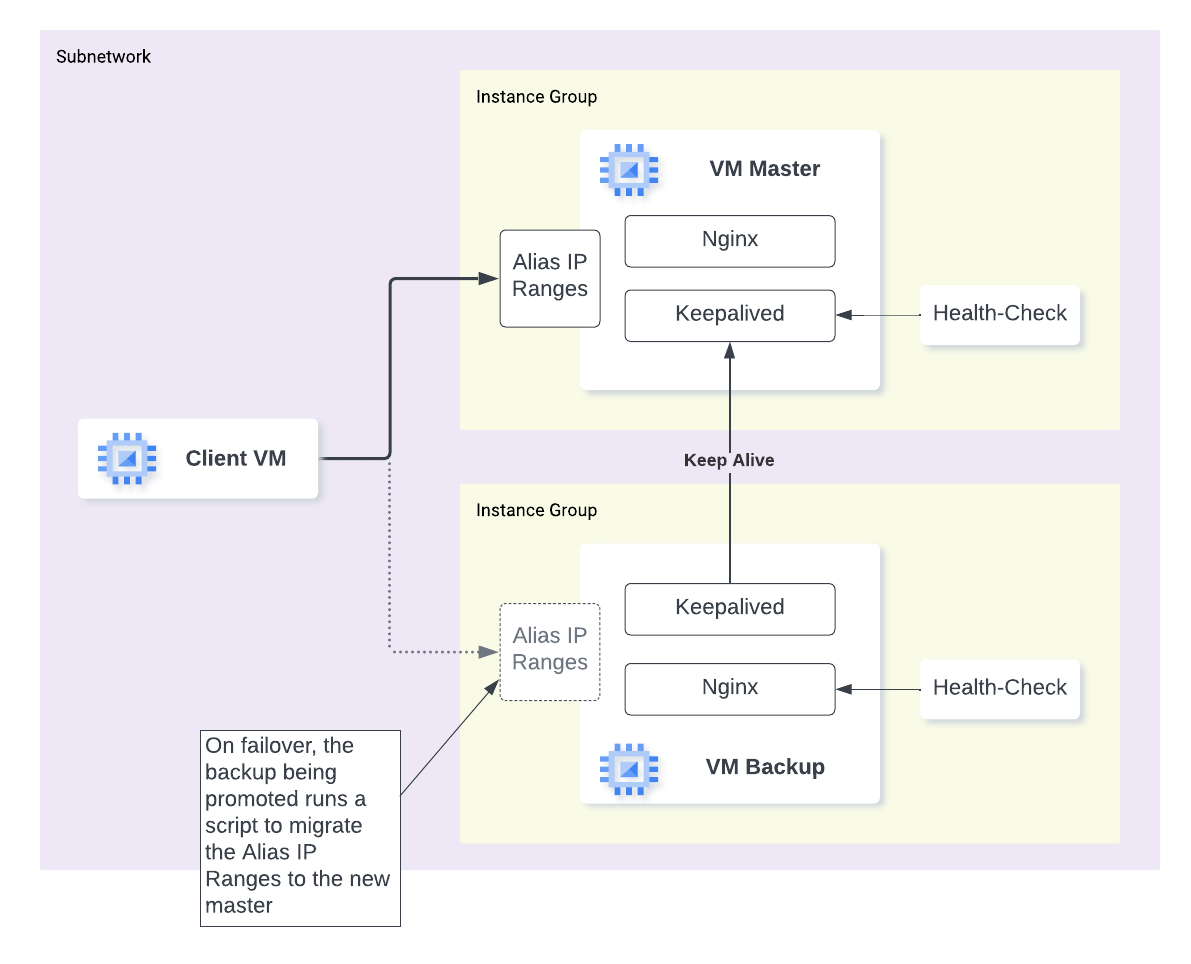
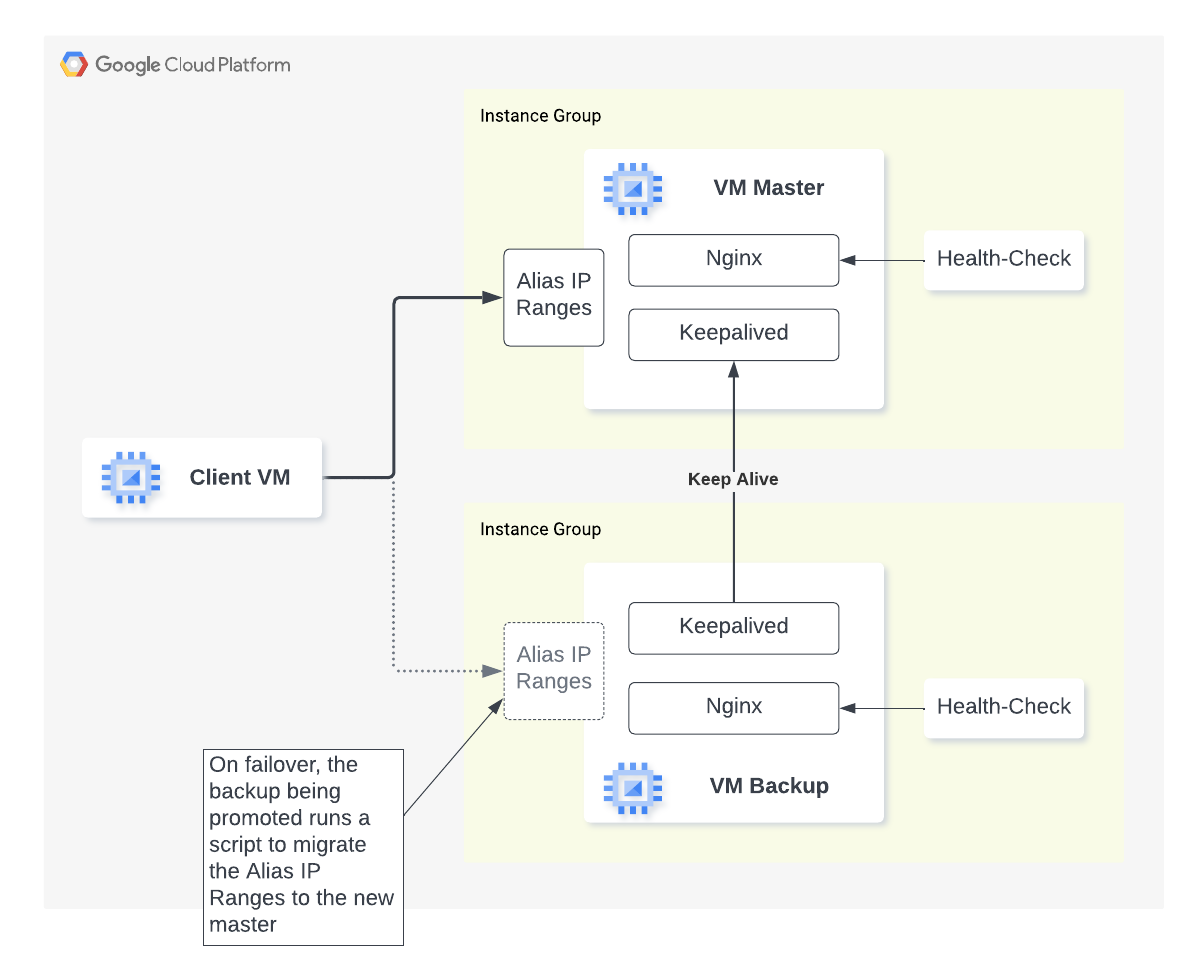
Correction to README file and architecture diagram

diff --git a/README.md b/README.md
@@ -1,4 +1,4 @@
-# Deploying a Nginx cluster with failover and heartbeat-exposed health checks
+# Deploying a Nginx cluster with failover and heartbeat-exposed health checks on Google Cloud Platform
 
 
 This document provides instructions on how to deploy the example implementation of a Nginx cluster with failover and heartbeat-exposed health checks pattern using [Terraform](https://www.terraform.io/).
